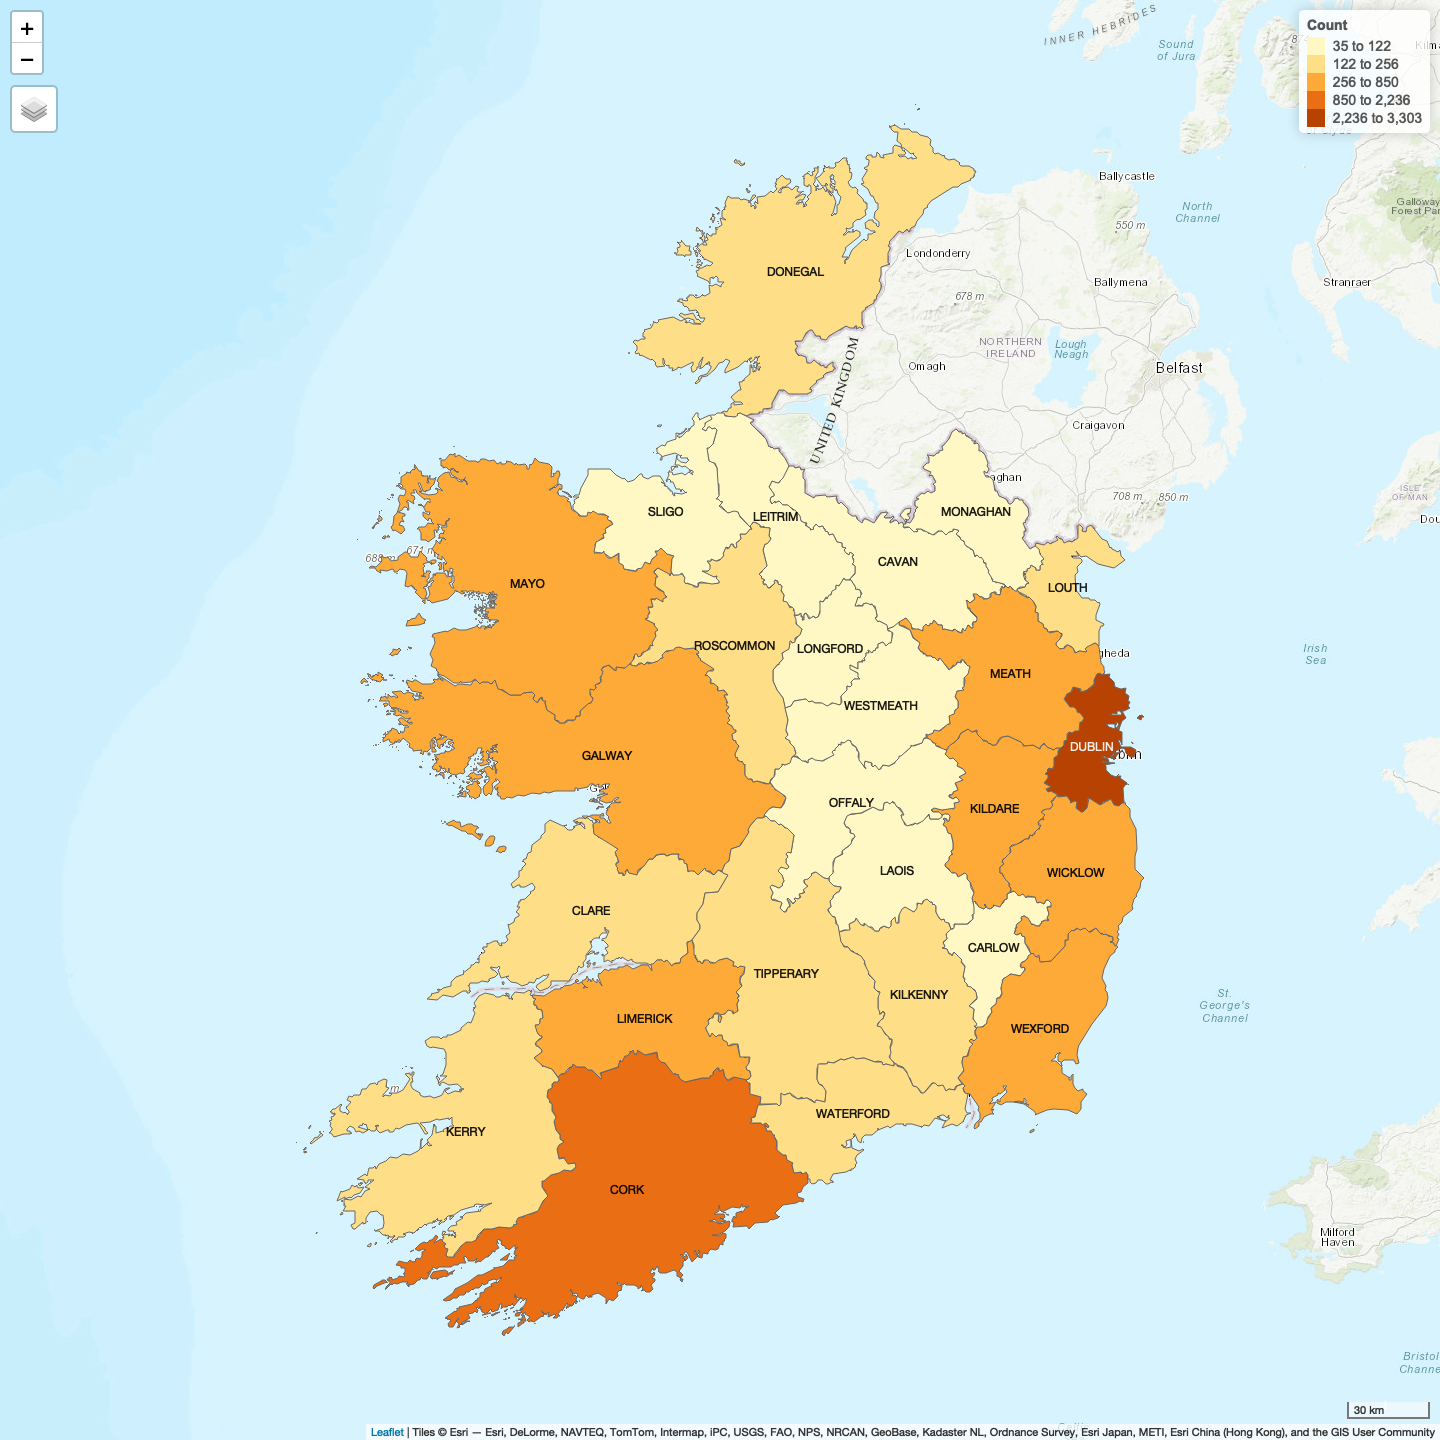
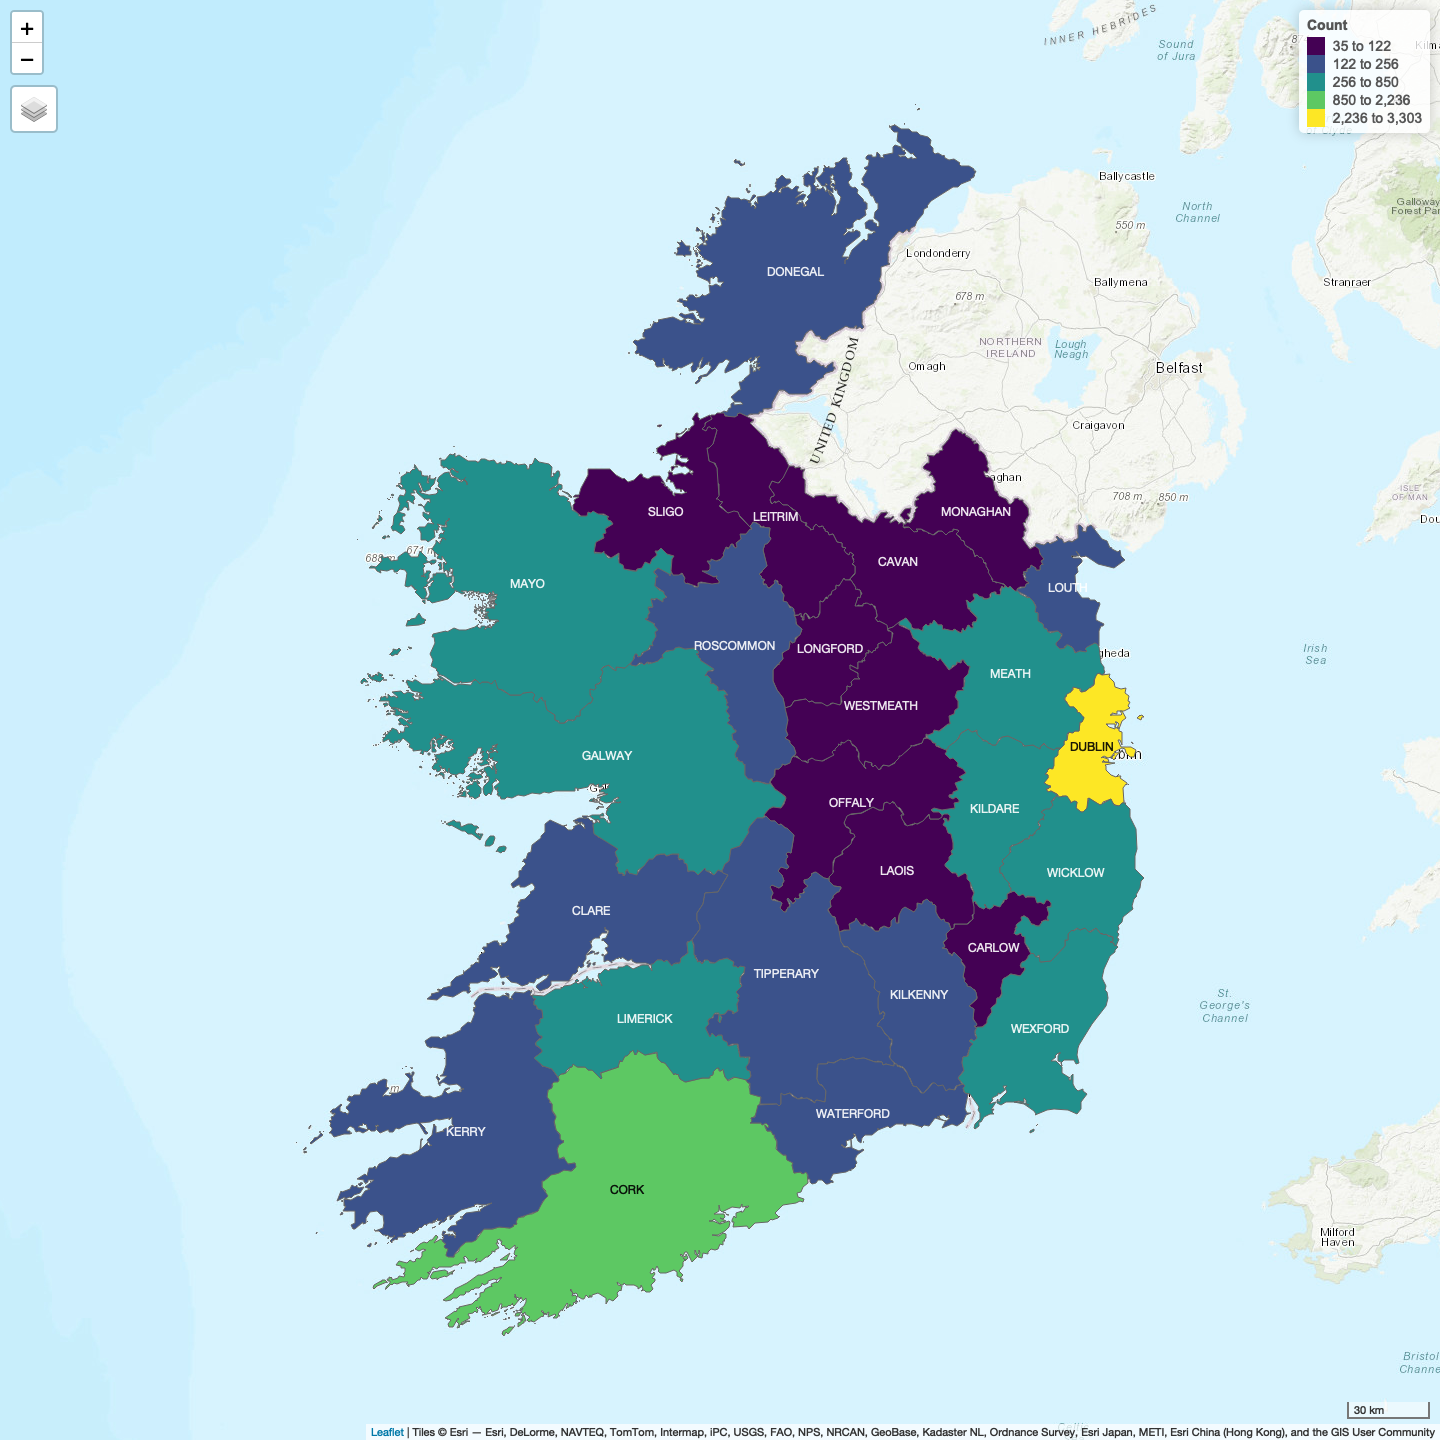
refactor: update pallete of Density plot

Changed region(s): [[0.2188, 0.0938, 0.8125, 0.9375], [0.9062, 0.0312, 0.9375, 0.0938]]

diff --git a/scripts/exploration/DataExploration-HousingDataset.md b/scripts/exploration/DataExploration-HousingDataset.md
@@ -1320,6 +1320,7 @@ count_houses_county_map <- count_houses_county %>%
 
 tm_shape(count_houses_county_map) + 
     tm_polygons("Count", 
+                palette = "viridis",
                 legend.title = "Count of Houses per County", 
                 style = "kmeans") +
   
